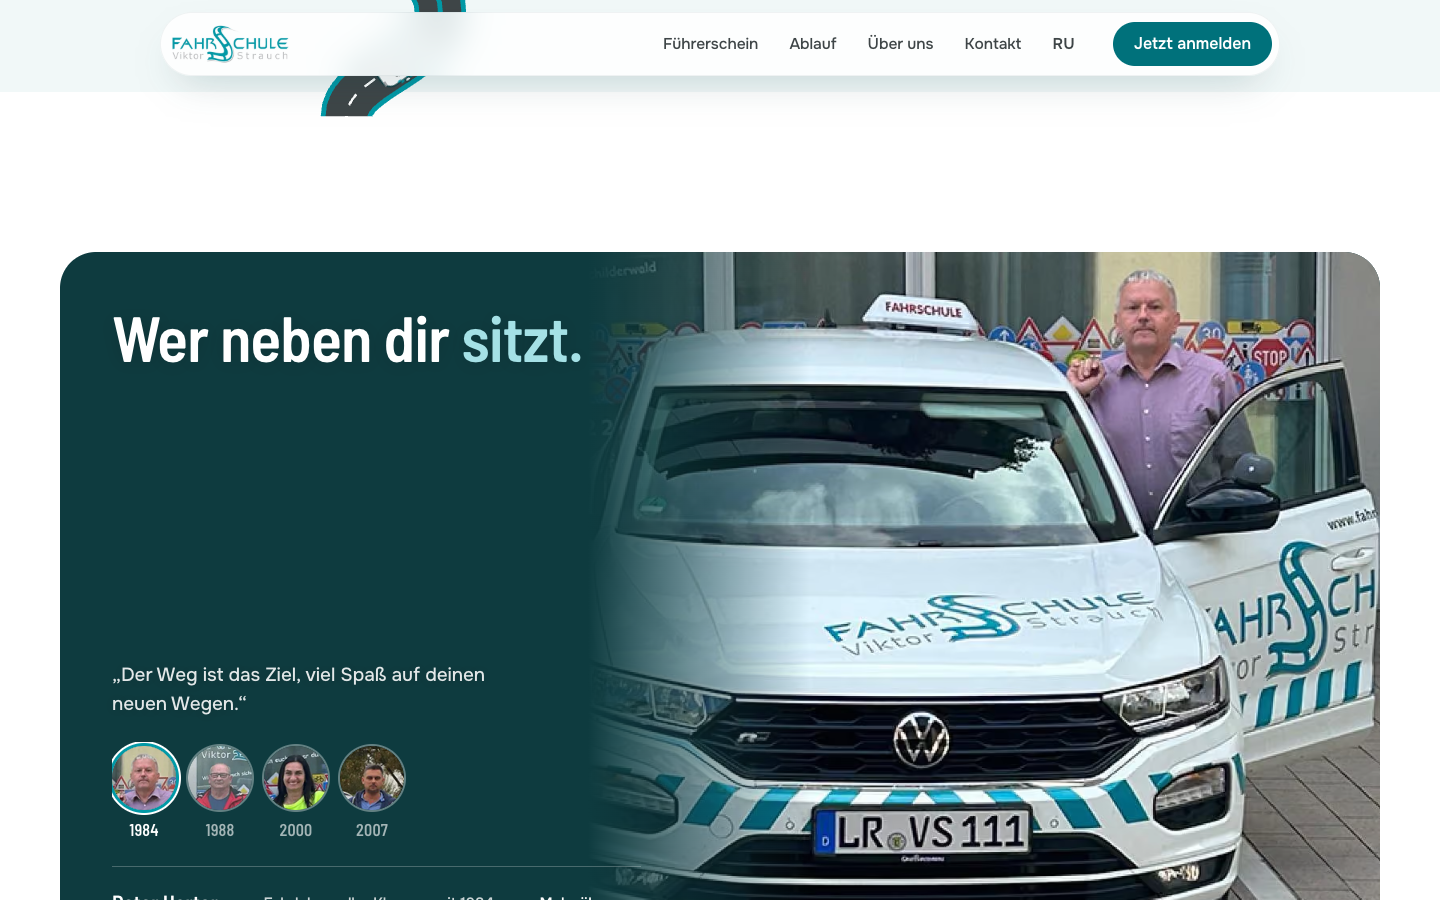
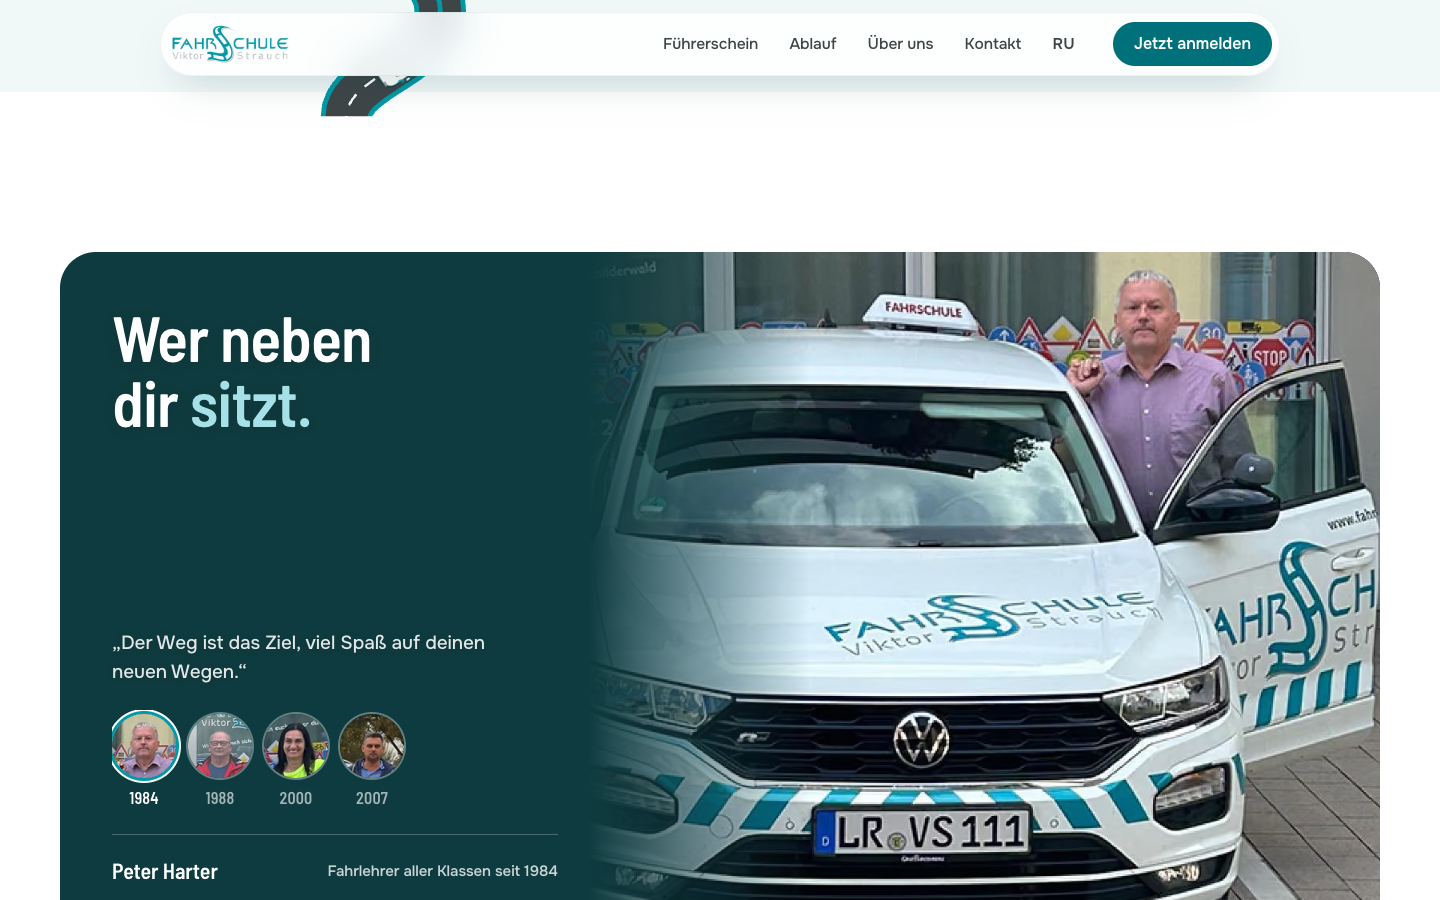
Review-Runde 2: Stationsnummern, Intro-Foto mobil, Team-Meta im Panel

diff --git a/src/styles/sections.css b/src/styles/sections.css
@@ -263,6 +263,7 @@
   aspect-ratio: 3 / 2;
 }
 .intro__large img {
+  object-position: 100% 50%;
   height: 112%;
   margin-top: -6%;
   will-change: transform;
@@ -654,6 +655,9 @@
 .station.is-passed text {
   fill: #fff;
 }
+.journey__road--h .station text {
+  font-size: 33px;
+}
 
 .journey__steps {
   counter-reset: step;
@@ -960,8 +964,8 @@
     background: linear-gradient(90deg, var(--color-brand-night) 0%, rgb(14 59 63 / 0) 28%);
   }
   .crew__content {
-    width: 44%;
-    padding-right: 0;
+    width: 40%;
+    padding-right: clamp(1.5rem, 1rem + 1vw, 2.25rem);
   }
   .crew__quote {
     max-width: 24rem;
